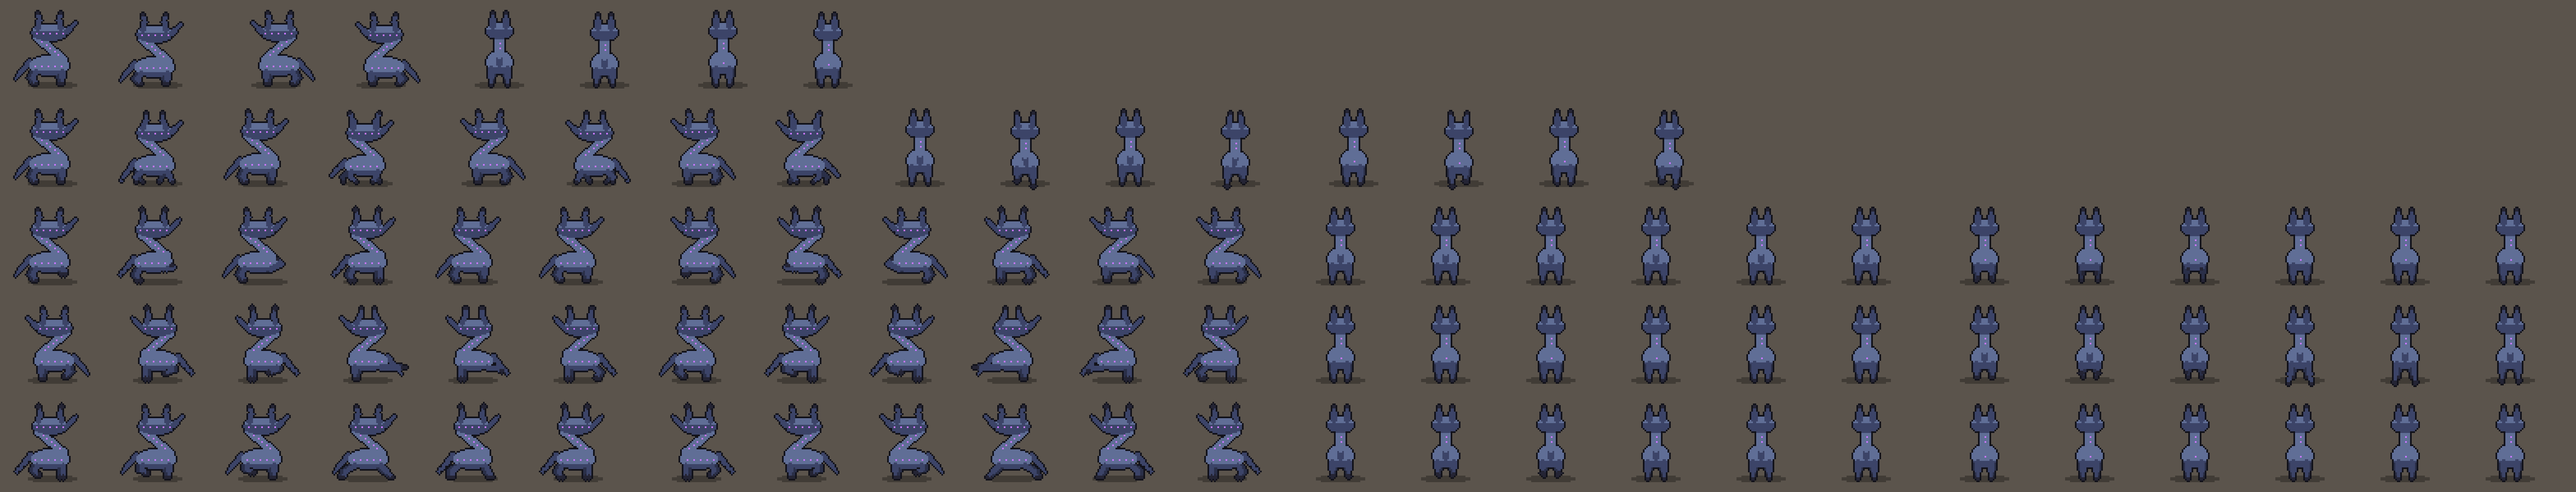
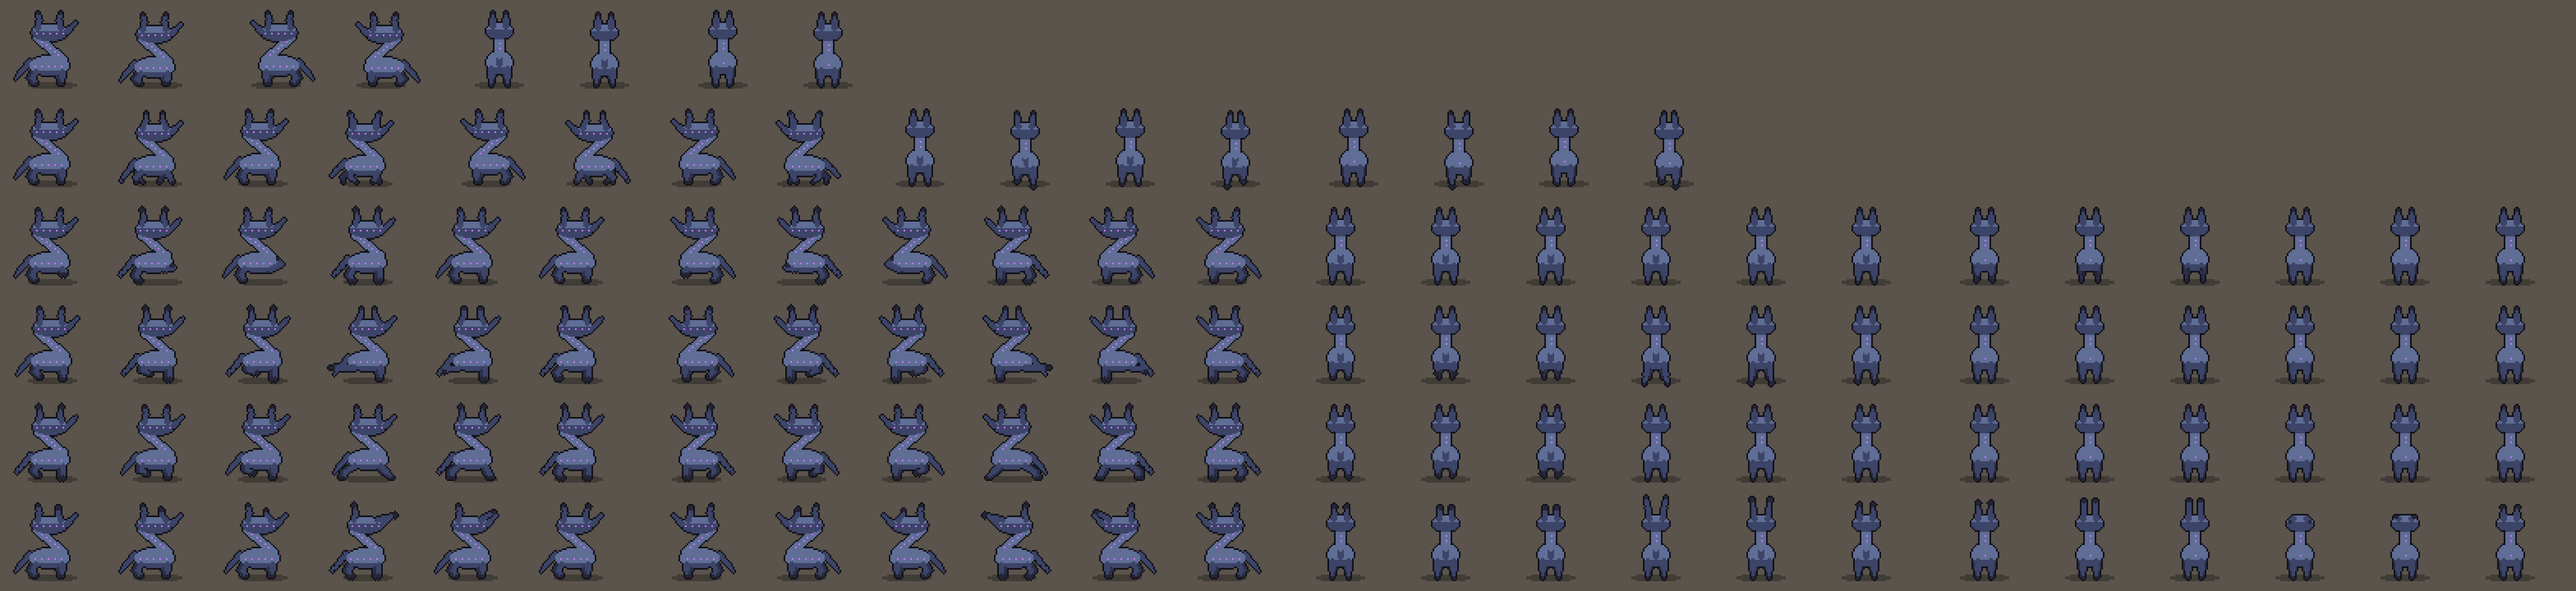
Taurtaur kicks alternate halves without turning round
A taurtaur keeps its facing through a kick combo. Its halves face opposite ways, so it kicks with whichever half's hind legs are on the side it's attacking: the bottom half first, and each hit on its back swaps the sides, the other half's hind legs kicking there next. Sparks follow the kicking hooves (top_kick_tips), and after the combo, a failure or a daze it faces as usual again. New placeholder sheets for the top half's kick (slash_kick_top), loaded into its animations at start; its kick sheets are now named by the way the bottom half faces.

Changed region(s): [[0.0, 0.0311, 1.0, 0.9956]]

diff --git a/PENDING_ASSETS.md b/PENDING_ASSETS.md
@@ -40,7 +40,7 @@ line in `assets/sfx/SOURCE.txt`.
 | `assets/sprites/wyrm/wyvern_*.png` (all 16 sheets) | Wyvern ([Wyvern.tscn](src/enemies/Wyvern.tscn)): a red, winged, two-legged dragon drawn as a placeholder, same actions and facings | ![wyvern](docs/pending_assets/enemy_wyvern.png) |
 | `assets/sprites/centaur/centaur_*.png` (all 16 sheets) | Cyber Centaur ([Centaur.tscn](src/enemies/Centaur.tscn)): a horse body with an armoured rider holding a halberd, drawn by script as a placeholder. Idle, walk, slash (the clash hit) and slash_kick (turned away, kicking with its hind legs) in all four facings. The preview rows are those actions; the columns face right, left, up and down. | ![centaur](docs/pending_assets/enemy_centaur.png) |
 | `assets/sprites/centaur/bucentaur_*.png` (all 20 sheets) | Cyber Bucentaur ([Bucentaur.tscn](src/enemies/Bucentaur.tscn)): a bull body with a horned rider. The centaur's actions plus slash_charge, the lance levelled for its charge | ![bucentaur](docs/pending_assets/enemy_bucentaur.png) |
-| `assets/sprites/centaur/taurtaur_*.png` (all 20 sheets) | Cyber Taurtaur ([Taurtaur.tscn](src/enemies/Taurtaur.tscn)): two horse bottoms joined by a shared neck, the top one upside down and facing the other way. Slash is its front-hoof stomp (the group-rush clash), and slash_charge is its lunge | ![taurtaur](docs/pending_assets/enemy_taurtaur.png) |
+| `assets/sprites/centaur/taurtaur_*.png` (all 24 sheets) | Cyber Taurtaur ([Taurtaur.tscn](src/enemies/Taurtaur.tscn)): two horse bottoms joined by a shared neck, the top one upside down and facing the other way. Slash is its front-hoof stomp (the group-rush clash), slash_charge is its lunge, slash_kick is the bottom half's hind-leg kick and slash_kick_top the top half's. Its sheets are named by the way the bottom half faces, and it never turns to kick. | ![taurtaur](docs/pending_assets/enemy_taurtaur.png) |
 | Spin attack (no art of its own) | The player's charged spin ([Player.gd](src/player/Player.gd) `_start_spin`) holds frame 6 of `jason_*_slash.png` and rotates the whole sprite once. Needs a real spin animation, all four facings | ![spin](docs/pending_assets/player_spin.gif) |
 | `assets/sprites/goblin/goblin_*_slash.png` | The goblin's attack ([Goblin.tscn](src/enemies/Goblin.tscn) `slash_*`; Troll and Orc borrow it too). Needs redoing | ![goblin slash](docs/pending_assets/enemy_goblin_slash.gif) |
 | `assets/sprites/wizard/wizard_*.png` (stand, walk, shoot) | Every wizard sprite ([Wizard.tscn](src/enemies/Wizard.tscn); Warlock and Necromancer borrow them too). Need redoing | ![wizard](docs/pending_assets/enemy_wizard.gif) |
